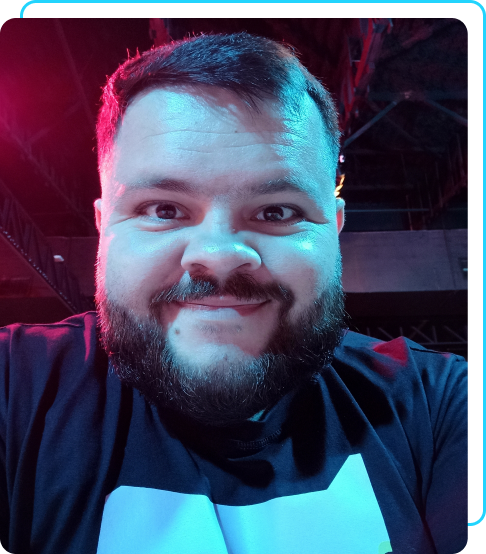
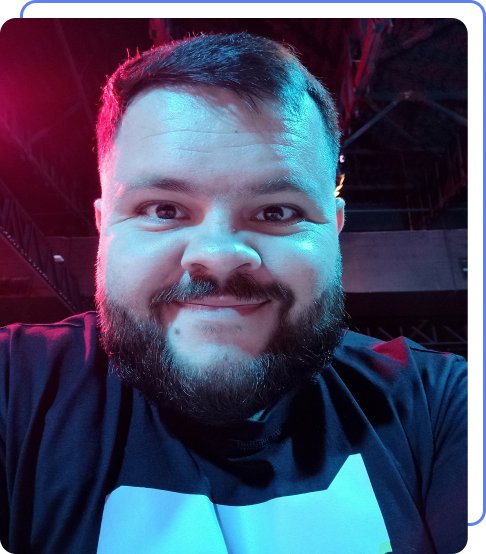
ajustando as cores

Changed region(s): [[0.0309, 0.0, 1.0, 0.9513]]

diff --git a/styles/style.css b/styles/style.css
@@ -2,9 +2,9 @@
 @import url("curriculo.css");
 
 :root {
-  --preto: #000000;
-  --branco: #f6f6f6;
-  --azul: #22d4fd;
+  --preto: #0D0D0D;
+  --branco: #E9E9F2;
+  --azul: #5C82F2;
   --cinza: #272727;
 }
 * {

diff --git a/styles/curriculo.css b/styles/curriculo.css
@@ -104,7 +104,7 @@
   background: var(--azul);
   color: var(--preto);
   border-radius: 10px;
-  font-size: 14px;
+  font-size: 18px;
   font-weight: 600;
 }
 
